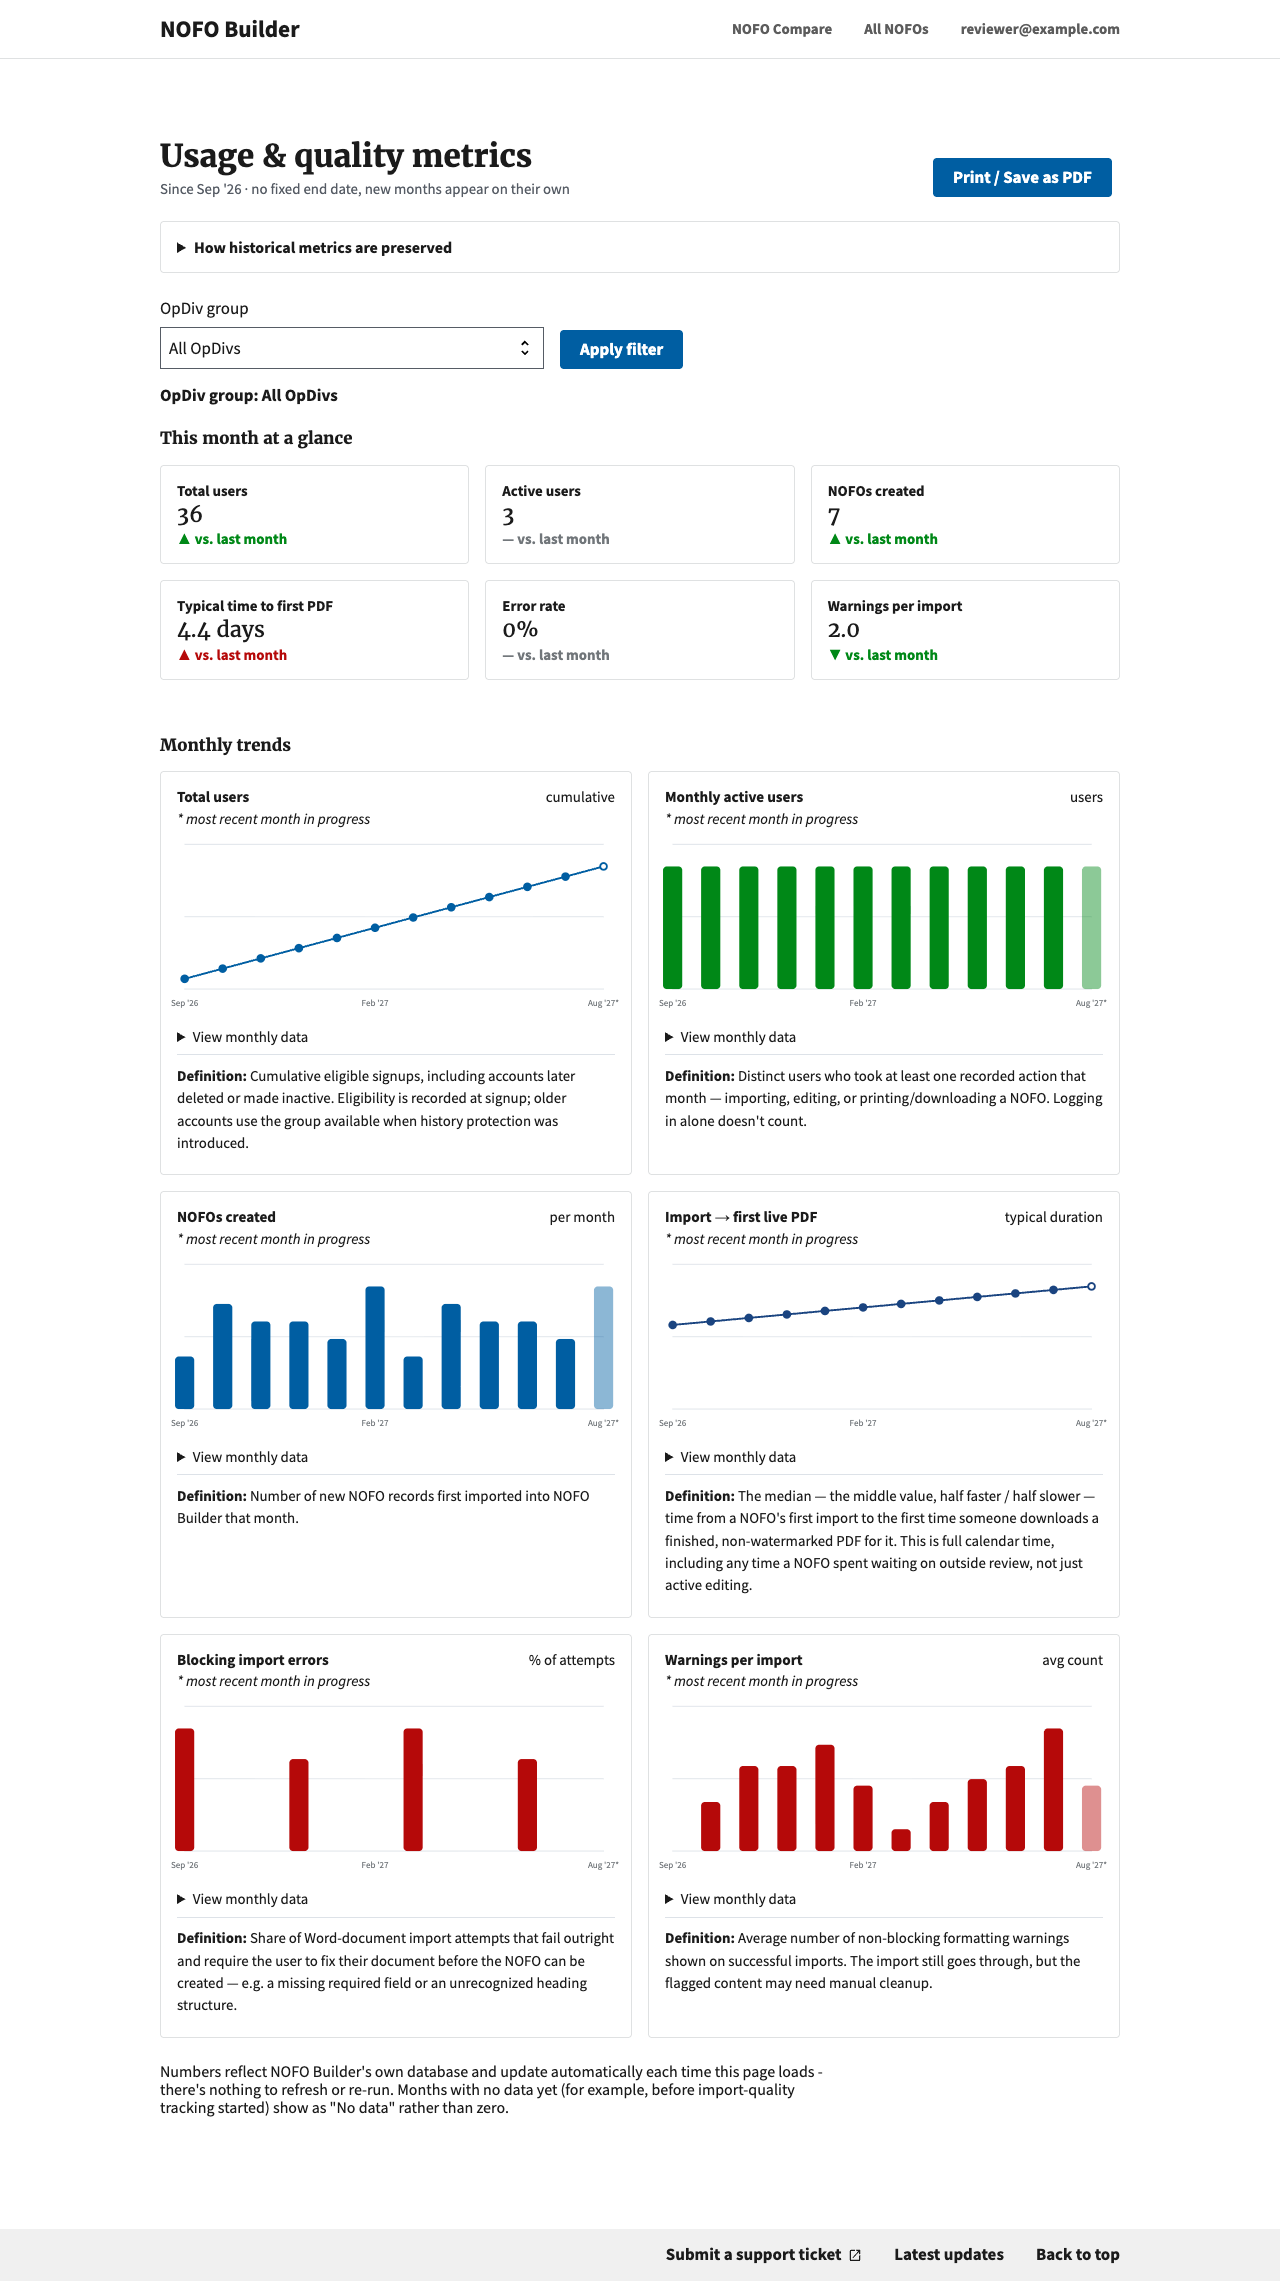
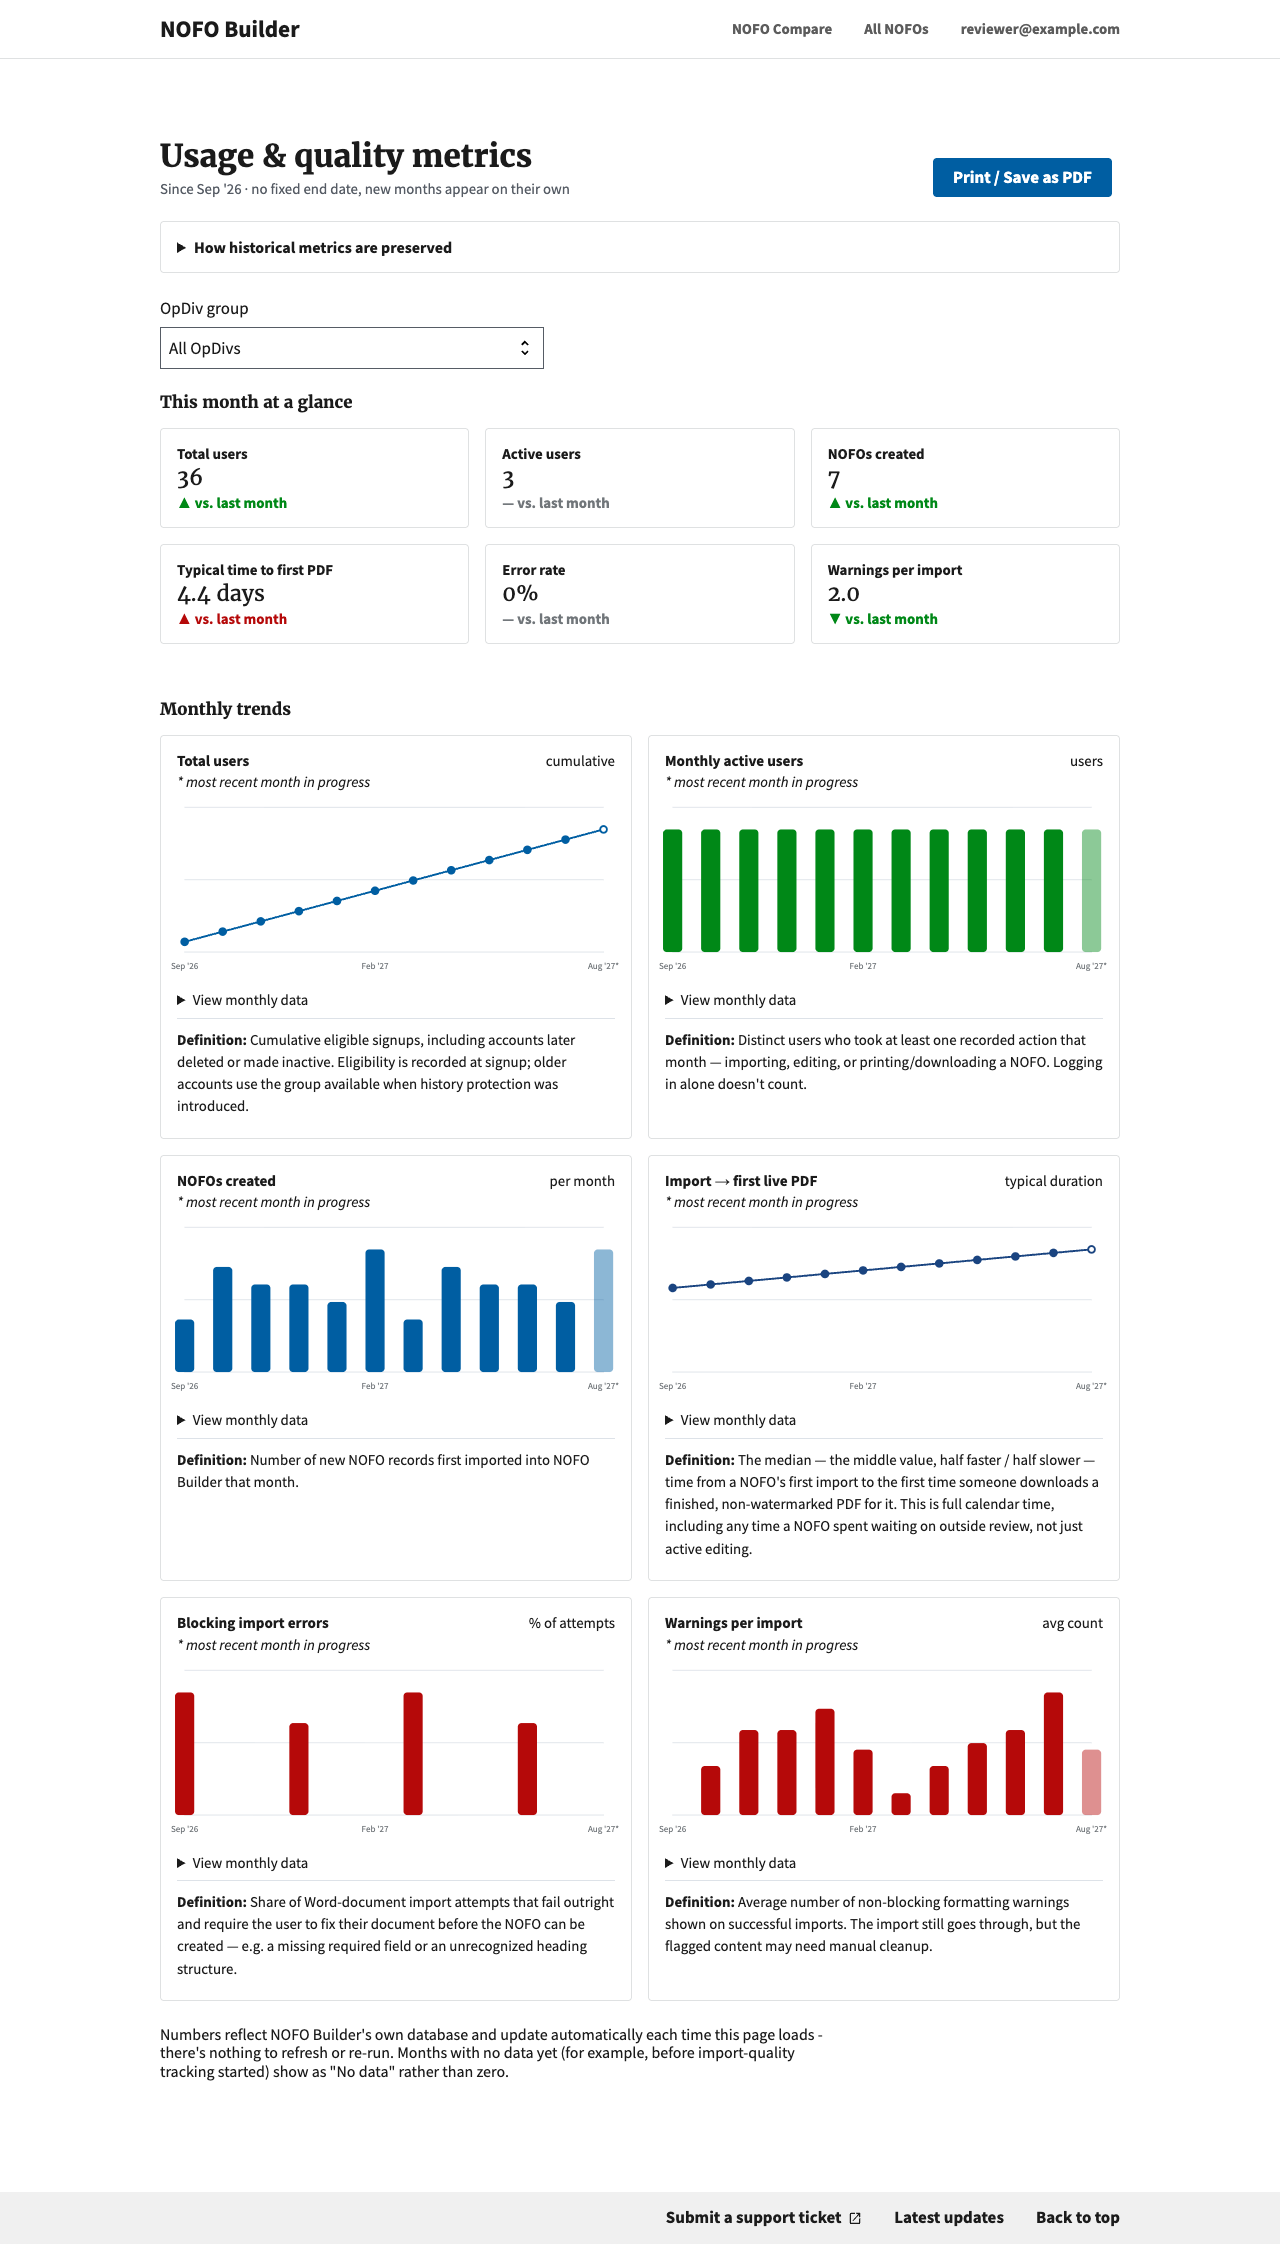
refactor: simplify the OpDiv metrics filter interaction

diff --git a/nofos/nofos/templates/nofos/builder_metrics.html b/nofos/nofos/templates/nofos/builder_metrics.html
@@ -17,6 +17,7 @@
    * against this page's colored chart lines/bars for no benefit.
    * Only layout/behavior that has no USWDS equivalent is custom CSS below.
    */
+  .metrics-print-scope { display: none; }
   .metrics-filter { display: flex; align-items: flex-end; flex-wrap: wrap; gap: 1rem; }
   .metrics-filter .usa-select { max-width: 100%; }
   .metrics-filter-control { width: 24rem; max-width: 100%; }
@@ -58,6 +59,7 @@
   .metrics-empty-note { margin-top: 1.5rem; max-width: 42rem; }
 
   @media print {
+    .metrics-print-scope { display: block; }
     .metrics-filter, #metrics-filter-status, .metrics-toolbar .usa-button, header.usa-header, footer.usa-footer { display: none !important; }
   }
 </style>
@@ -100,20 +102,20 @@
       This history is separate from application logs and database backups.</p>
   </details>
 
-  <form method="get" id="metrics-filter" class="metrics-filter margin-bottom-2">
+  <div id="metrics-filter" class="metrics-filter margin-bottom-3">
     <div class="metrics-filter-control">
       <label class="usa-label margin-top-0" for="metrics-group">OpDiv group</label>
-      <select class="usa-select" name="group" id="metrics-group">
+      <select class="usa-select" name="group" id="metrics-group" aria-describedby="metrics-filter-hint">
         <option value="all" {% if selected_group == 'all' %}selected{% endif %}>All OpDivs</option>
         {% for value, label in opdiv_choices %}
         <option value="{{ value }}" {% if selected_group == value %}selected{% endif %}>{{ label }}</option>
         {% endfor %}
       </select>
     </div>
-    <button class="usa-button" type="submit">Apply filter</button>
-  </form>
-  <p id="metrics-filter-status" role="status" aria-live="polite" class="font-sans-2xs"></p>
-  <p class="font-sans-sm text-bold margin-bottom-3">OpDiv group: <span id="metrics-applied-group">{{ metrics_data.groupLabel }}</span></p>
+  </div>
+  <span id="metrics-filter-hint" class="usa-sr-only">Selecting an OpDiv updates all metrics on this page.</span>
+  <p id="metrics-filter-status" role="status" aria-live="polite" class="usa-sr-only"></p>
+  <p class="metrics-print-scope font-sans-sm text-bold margin-bottom-3">OpDiv group: <span id="metrics-applied-group">{{ metrics_data.groupLabel }}</span></p>
   <h2 class="font-heading-md margin-top-0 margin-bottom-2">This month at a glance</h2>
   <div class="grid-row grid-gap-2 margin-bottom-3" id="metrics-kpi-row"></div>
 
@@ -316,37 +318,36 @@
   }
   renderMetrics(JSON.parse(document.getElementById('metrics-data').textContent));
 
-  var form = document.getElementById('metrics-filter');
+  var select = document.getElementById('metrics-group');
+  var appliedGroup = JSON.parse(document.getElementById('metrics-data').textContent).group;
   var status = document.getElementById('metrics-filter-status');
-  var loading = false;
-  form.addEventListener('submit', async function (event) {
-    event.preventDefault();
-    if (loading) return;
-    loading = true;
-    var apply = form.querySelector('button');
+  var requestNumber = 0;
+  select.addEventListener('change', async function () {
+    // Keep the native select enabled and focused. Only the latest selection may
+    // update results, including when earlier requests finish out of order.
+    var currentRequest = ++requestNumber;
     var print = document.getElementById('metrics-print');
-    var select = document.getElementById('metrics-group');
     var url = new URL(window.location.href);
     url.searchParams.set('group', select.value);
-    apply.disabled = true;
     print.disabled = true;
-    select.disabled = true;
+    status.className = 'usa-sr-only';
     status.textContent = 'Updating metrics…';
     try {
       var response = await fetch(url, {headers: {'Accept': 'application/json'}});
       if (!response.ok) throw new Error('Metrics request failed');
       var data = await response.json();
+      if (currentRequest !== requestNumber) return;
       renderMetrics(data);
+      appliedGroup = data.group;
       window.history.replaceState(null, '', url);
       status.textContent = 'Metrics updated for ' + data.groupLabel + '.';
     } catch (error) {
-      status.textContent = 'Unable to update metrics. Your previous results are still shown. Please try again.';
+      if (currentRequest !== requestNumber) return;
+      select.value = appliedGroup;
+      status.className = 'font-sans-2xs';
+      status.textContent = 'Unable to update metrics. Your previous results are still shown. Select an OpDiv to try again.';
     } finally {
-      loading = false;
-      apply.disabled = false;
-      print.disabled = false;
-      select.disabled = false;
-      apply.focus();
+      if (currentRequest === requestNumber) print.disabled = false;
     }
   });
 

diff --git a/documentation/review-evidence/886/README.md b/documentation/review-evidence/886/README.md
@@ -17,14 +17,15 @@ Validation:
 - PostgreSQL: all 25 metrics/history/filter tests passed with fresh migrations.
 - All 17 JavaScript unit tests passed; migration drift and whitespace checks passed.
 - `tests/js/metrics_opdiv.browser.cjs` checked nine dropdown choices, 72 monthly
-  rows, actual filtered JSON updates without a document navigation, URL reload,
+  rows, automatic filtered JSON updates without a document navigation, keyboard
+  selection with retained focus, out-of-order responses, URL reload,
   failure/retry preserving applied results, an empty agency, keyboard disclosure
   opening, responsive bounds at 320/375/768px, print expansion/restoration, and
   no JavaScript errors. Set METRICS_URL, METRICS_COOKIE_FILE (local Playwright
   cookie JSON), CHROME_PATH, and make Playwright available to Node to rerun with
   the same 12-month synthetic dataset and a metrics-viewer session.
 - An actual three-page A4 PDF contains the applied CDC label, all six monthly
-  table captions and final-month rows, despite an unapplied NIH dropdown choice.
+  table captions and final-month rows, with the selected scope hidden on screen and visible in print.
   The PNG shows continuous print styles, not PDF pagination.
 
 This does not claim a manual screen-reader audit. The historical attribution

diff --git a/documentation/BUILDER_METRICS.md b/documentation/BUILDER_METRICS.md
@@ -49,11 +49,13 @@ automatic reclassification or correction interface.
 ## OpDiv filtering (#886)
 
 The dashboard defaults to All OpDivs and offers the eight agency groups from
-`GROUP_CHOICES`, excluding Bloomworks and staging. Apply filter updates all six
+`GROUP_CHOICES`, excluding Bloomworks and staging. Changing the dropdown updates all six
 metrics in place and stores `?group=cdc` (for example) in the URL. Both HTML and
 JSON responses require the existing metrics-viewer permission. Invalid/internal
-group values are rejected. Print includes the applied group label and all
-monthly tables; changing a dropdown without applying it does not change reports.
+group values are rejected. The applied group label appears only in print, with all monthly tables expanded.
+Completion messages are available to screen readers without visible repetition.
+The dropdown retains focus; only the latest request can update the report. Failed
+requests display an error and reset the dropdown to the last successful group.
 
 Signup facts retain the user's signup group; activity and import attempts retain
 the user's group at the time; NOFO facts retain their creation group. These are
